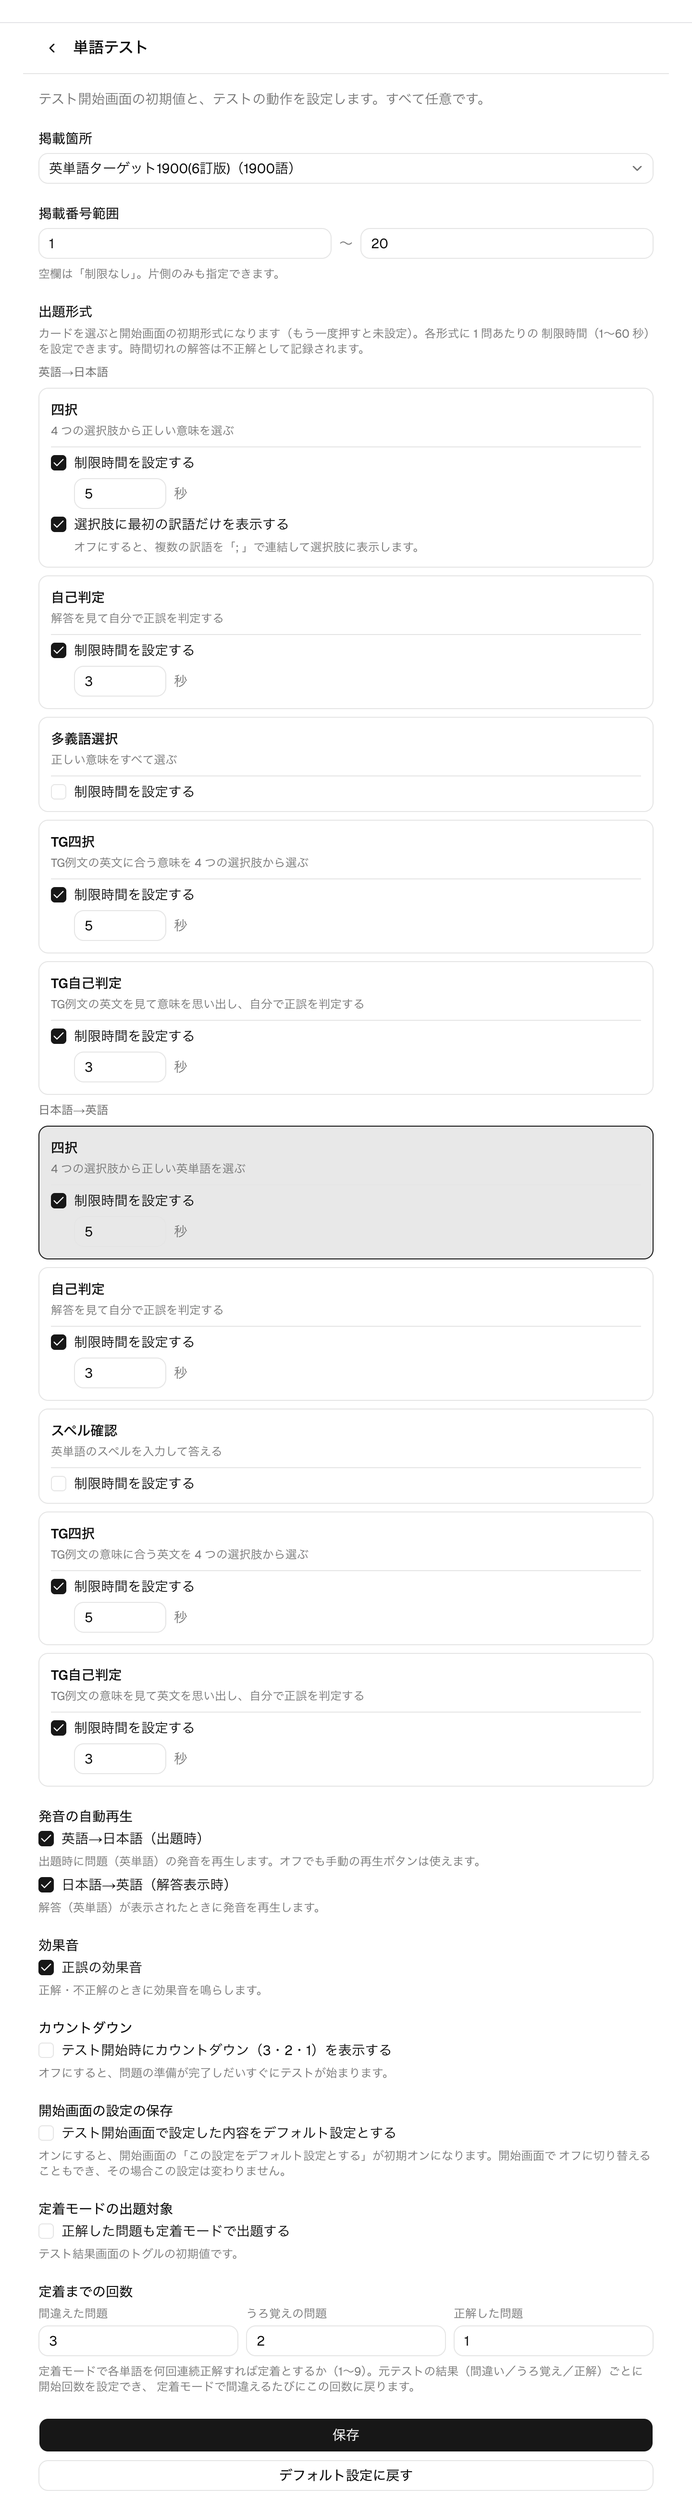
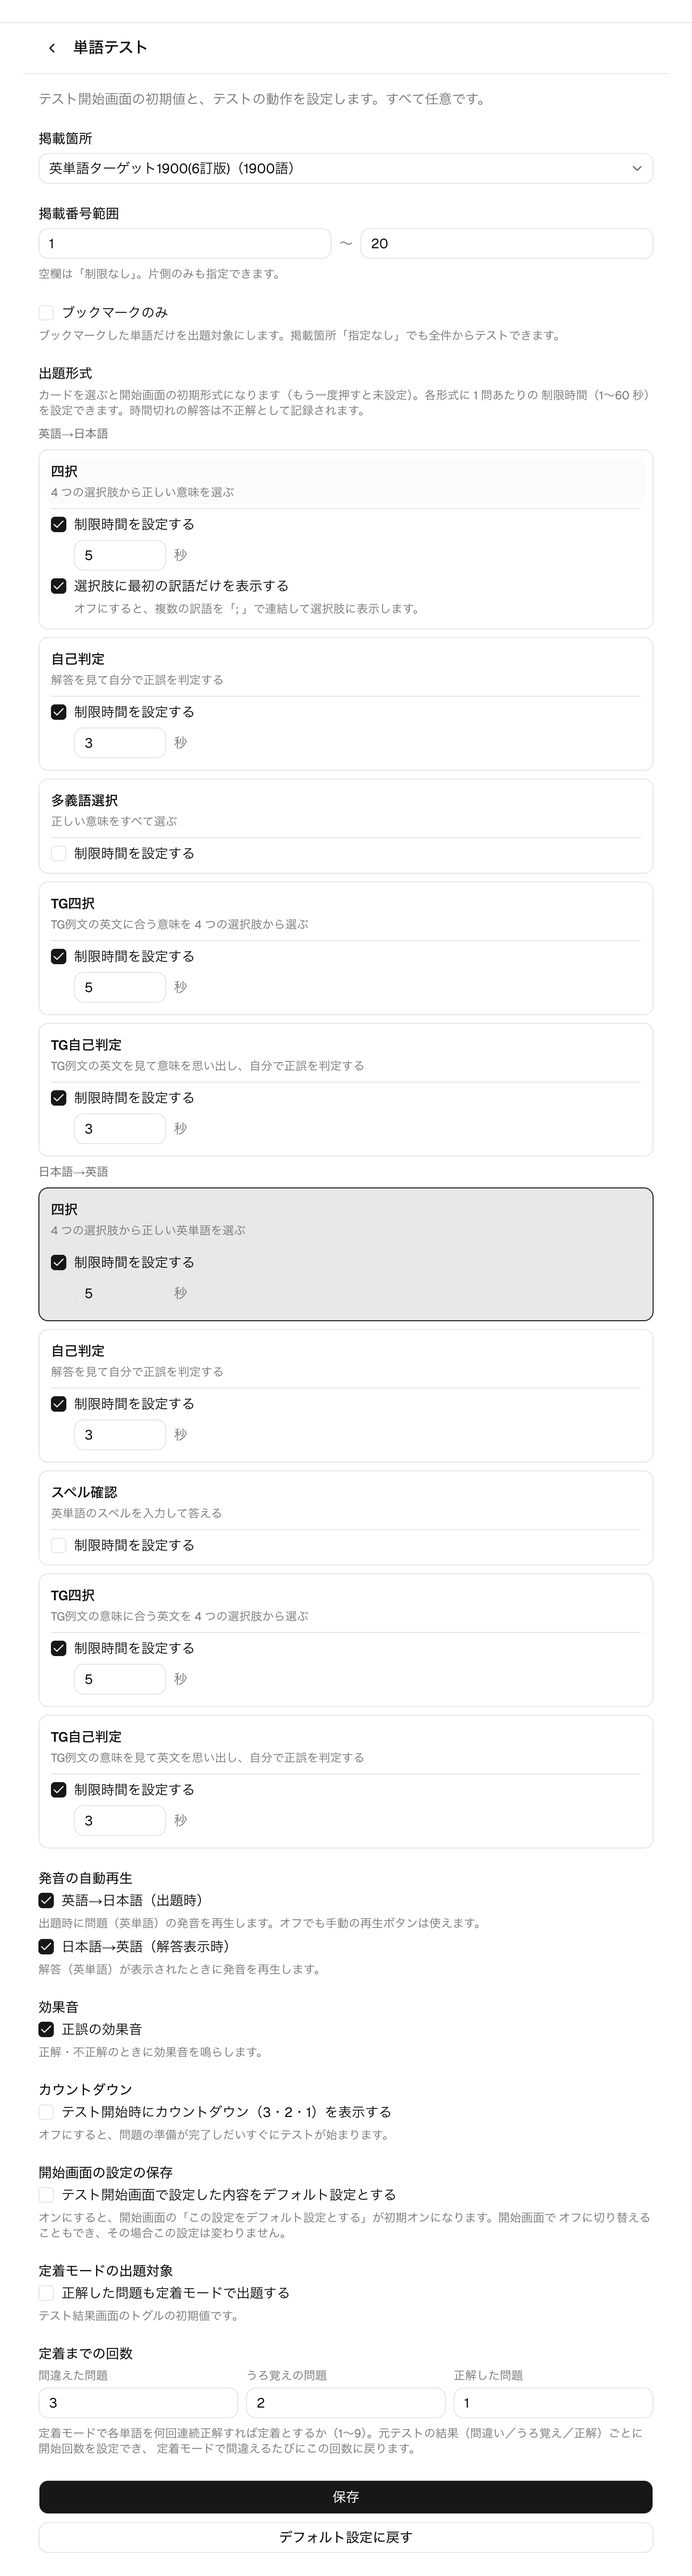
bookmark: 機能紹介ドキュメント（docs/features）追加
- docs/features/bookmark.md 新規（付け外し・一覧フィルタ・quiz 絞り込み・全件モード）
- capture スクリプトに bookmark セクション＋ ensureQuizDeckBookmarks seed を追加
- ブックマーク UI の追加で実画面が変わった既存スクリーンショットを再撮影
- README 目次と word-quiz / word-management からのクロスリンクを追加

diff --git a/scripts/e2e/capture-docs-screenshots.ts b/scripts/e2e/capture-docs-screenshots.ts
@@ -15,6 +15,7 @@ import {
   ensureAdminDemoInvitee,
   ensureDemoWord,
   ensureQuizDeck,
+  ensureQuizDeckBookmarks,
   ensureUser,
   getLargestSharedOccurrence,
   makePrisma,
@@ -365,6 +366,89 @@ async function sectionQuiz(browser: Browser): Promise<void> {
   }
 }
 
+/**
+ * ブックマーク（単語一覧のフィルタ・quiz 開始フォームの全件モード・テスト結果一覧とダイアログのトグル）。
+ * 被写体は ensureQuizDeck のデッキ＋ ensureQuizDeckBookmarks が付けるブックマーク 3 件。
+ * quiz の操作ヘルパは sectionQuiz と同型の最小版（セクション自己完結の方針で局所に持つ）。
+ */
+async function sectionBookmark(browser: Browser): Promise<void> {
+  const user = await docsContext(browser);
+  try {
+    const page = await login(user, TEST_USER1_EMAIL, TEST_USER1_PASSWORD);
+    const main = page.getByRole("main");
+
+    // 単語一覧の「ブックマークのみ」フィルタ表示中（行のトグルは ON 塗りつぶしで並ぶ）。
+    await page.goto("/words?bookmarked=1");
+    await shot(
+      page,
+      "bookmark-words-list",
+      page.getByRole("button", { name: "ブックマークのみ" }),
+      main,
+    );
+
+    // quiz 開始フォームの全件モード（掲載箇所「指定なし」＋ブックマークのみ ON、範囲 Input は disabled）。
+    await page.goto("/quiz");
+    await page.locator("#quiz-occurrence").click();
+    await page.getByRole("option", { name: "指定なし", exact: true }).click();
+    await page.getByRole("checkbox", { name: "ブックマークのみ" }).click();
+    await shot(page, "bookmark-quiz-start", page.getByText(/対象\s*\d+語/), main);
+
+    // テスト結果一覧（行のブックマークトグル）: デッキ No.1〜3 を自己判定で完走して結果へ。
+    // No.1 brisk はブックマーク済み・No.2〜3 は未ブックマークで、ON/OFF が混在した結果を撮る。
+    await page.goto("/quiz");
+    await page.locator("#quiz-occurrence").click();
+    await page.getByRole("option", { name: quizDeckLocation }).click();
+    await page.locator("#quiz-range-from").fill("1");
+    await page.getByLabel("掲載番号（まで）").fill("3");
+    await page.locator("#quiz-format").click();
+    await page.getByRole("option", { name: "自己判定" }).first().click();
+    const secInput = page.getByLabel("制限時間（秒）");
+    const appeared = await secInput
+      .waitFor({ state: "visible", timeout: 5_000 })
+      .then(() => true)
+      .catch(() => false);
+    if (appeared) {
+      await page.getByRole("checkbox", { name: "1 問ごとに制限時間を設定する" }).click();
+      await secInput.waitFor({ state: "hidden", timeout: 5_000 });
+    }
+    await page.getByRole("button", { name: "開始", exact: true }).click();
+
+    const judges = ["合っていた", "間違っていた", "うろ覚え"];
+    const reveal = page.getByRole("button", { name: "解答を表示", exact: true });
+    for (let i = 0; i < judges.length; i++) {
+      await reveal.waitFor({ state: "visible", timeout: 8_000 });
+      await reveal.click();
+      await page.getByRole("button", { name: judges[i] as string, exact: true }).click();
+    }
+    // 結果送信の完了と、ブックマーク状態の一括取得（トグル描画）を待ってから撮る。
+    await page.getByRole("heading", { name: "テスト結果" }).waitFor({ timeout: 15_000 });
+    await page
+      .getByRole("button", { name: "ブックマーク" })
+      .first()
+      .waitFor({ state: "visible", timeout: 15_000 });
+    await shot(
+      page,
+      "bookmark-quiz-result",
+      page.getByRole("heading", { name: "テスト結果" }),
+      main,
+    );
+
+    // 行タップで開く単語詳細ダイアログ（ヘッダ右上のトグルが行と同じ状態で出る）。
+    // dialog 要素はビューポート全幅のフルスクリーンダイアログのため、余白を省いて
+    // 内側の中央カラム（mx-auto コンテナ）にクリップする。
+    await page.getByRole("main").getByText("brisk", { exact: true }).first().click();
+    const dialog = page.getByRole("dialog");
+    await shot(
+      page,
+      "bookmark-quiz-result-dialog",
+      dialog.getByRole("button", { name: "ブックマーク" }),
+      dialog.locator("div.mx-auto").first(),
+    );
+  } finally {
+    await user.close();
+  }
+}
+
 /** 設定（設定トップ・単語全般・掲載箇所・単語テストのデフォルト）。すべて test1 の一般ユーザー画面。 */
 async function sectionSettings(browser: Browser): Promise<void> {
   const user = await docsContext(browser);
@@ -431,6 +515,9 @@ const SECTIONS: Record<string, (browser: Browser) => Promise<void>> = {
   common: sectionCommon,
   account: sectionAccount,
   words: sectionWords,
+  // bookmark は quiz より先に撮る（quiz が進行中の定着モードを残し、開始フォームの撮影に写り込むため。
+  // 進行中 drill は main() の DB 準備（ensureQuizDeck）が掃除する）。
+  bookmark: sectionBookmark,
   quiz: sectionQuiz,
   settings: sectionSettings,
   admin: sectionAdmin,
@@ -462,6 +549,7 @@ async function main(): Promise<void> {
 
   const needsWords = targets.some(([name]) => name === "words");
   const needsQuiz = targets.some(([name]) => name === "quiz");
+  const needsBookmark = targets.some(([name]) => name === "bookmark");
   // 設定の「掲載箇所」画面は test1 のデモ掲載箇所（②③が作る「デモ単語帳」「デモ英単語帳」）を被写体にする。
   const needsSettings = targets.some(([name]) => name === "settings");
   const needsAdmin = targets.some(([name]) => name === "admin");
@@ -474,10 +562,13 @@ async function main(): Promise<void> {
     if (needsWords) {
       sharedOccurrenceId = (await getLargestSharedOccurrence(prisma)).id;
     }
-    if (needsQuiz || needsSettings) {
+    if (needsQuiz || needsSettings || needsBookmark) {
       const deck = await ensureQuizDeck(prisma, TEST_USER1_EMAIL);
       quizDeckLocation = deck.location;
       quizDeckWordCount = deck.wordCount;
+    }
+    if (needsBookmark) {
+      await ensureQuizDeckBookmarks(prisma, TEST_USER1_EMAIL);
     }
     if (needsAdmin) {
       await assertSystemUserReady(prisma);

diff --git a/scripts/e2e/db.ts b/scripts/e2e/db.ts
@@ -333,6 +333,40 @@ export async function ensureQuizDeck(
   };
 }
 
+/** ブックマーク撮影でブックマーク済みにするデッキ語（QUIZ_DECK の headword から選ぶ）。 */
+const BOOKMARKED_DECK_HEADWORDS = ["brisk", "remote", "gaze"];
+
+/**
+ * ブックマーク機能の撮影用に、quiz デッキの一部の単語へ本人のブックマークを冪等に付ける。
+ * ensureQuizDeck がデッキ語を作り直す（＝旧 Bookmark 行は cascade で消える）ため、必ずその後に呼ぶ。
+ */
+export async function ensureQuizDeckBookmarks(
+  prisma: PrismaClientType,
+  ownerEmailRaw: string,
+): Promise<number> {
+  const email = ownerEmailRaw.toLowerCase();
+  const user = await prisma.user.findUnique({ where: { email }, select: { id: true } });
+  if (!user) {
+    throw new Error(
+      `ensureQuizDeckBookmarks: ユーザー ${email} が未用意です（先に ensureUser を呼んでください）。`,
+    );
+  }
+  const words = await prisma.word.findMany({
+    where: { ownerId: user.id, headword: { in: BOOKMARKED_DECK_HEADWORDS } },
+    select: { id: true },
+  });
+  if (words.length !== BOOKMARKED_DECK_HEADWORDS.length) {
+    throw new Error(
+      "ensureQuizDeckBookmarks: デッキ語が不足しています（先に ensureQuizDeck を呼んでください）。",
+    );
+  }
+  await prisma.bookmark.createMany({
+    data: words.map((w) => ({ userId: user.id, wordId: w.id })),
+    skipDuplicates: true,
+  });
+  return words.length;
+}
+
 /**
  * 掲載箇所ビューの撮影用に、最も単語数の多い共有（system 所有）掲載箇所を返す（読み取りのみ）。
  * 番号付きの一覧を映すのに使い、無ければ明示エラーにする（ターゲット1900 等を db:import-words で用意する）。

diff --git a/docs/features/bookmark.md b/docs/features/bookmark.md
@@ -1,0 +1,49 @@
+# ブックマーク
+
+## 概要
+
+ブックマークは、苦手な単語に印を付けて、あとから見返したり単語テストの出題対象を絞り込んだりする機能です。
+1 単語につき ON/OFF のシンプルなマークで、単語一覧・単語詳細・テスト結果のどこからでもアイコンのタップだけで
+付け外しできます。「テストで間違えた単語にその場で印を付け、後日ブックマークだけをまとめてテストし直す」という
+苦手つぶしの回し方ができます。
+
+## 主な画面と操作
+
+### 付け外しと「ブックマークのみ」フィルタ
+
+![ブックマークのみで絞り込んだ単語一覧](./images/bookmark-words-list.png)
+
+ブックマークの付け外しは、単語一覧の行・単語詳細画面・テスト結果一覧の行・テスト結果から開く単語詳細
+ダイアログの 4 箇所にあるブックマークアイコンで行います。タップで即座に切り替わり、付いている単語は
+塗りつぶしで表示されます。単語一覧では「ブックマークのみ」トグルでブックマーク済みの単語だけに
+絞り込めます（単語ビュー・掲載箇所ビューのどちらでも使えます）。
+
+### テスト結果からの付け外し
+
+![テスト結果一覧のブックマーク](./images/bookmark-quiz-result.png)
+
+テスト結果の一覧では、各単語の行にブックマークアイコンが並びます。答え合わせで「間違えた・うろ覚えだった」と
+わかった単語に、その場で印を付けるのに便利です。
+
+![単語詳細ダイアログのブックマーク](./images/bookmark-quiz-result-dialog.png)
+
+行をタップして開く単語詳細ダイアログの右上でも付け外しでき、ダイアログでの変更は閉じたあとの行の表示にも
+同期します。
+
+### 単語テストをブックマークで絞る
+
+![ブックマーク全件を対象にしたテスト開始画面](./images/bookmark-quiz-start.png)
+
+単語テストの開始画面の「ブックマークのみ」をオンにすると、出題対象がブックマーク済みの単語に絞られます。
+掲載箇所・掲載番号範囲との組み合わせ（範囲内のブックマークだけ）と、掲載箇所「指定なし」でのブックマーク
+全件テストの両方ができ、対象の語数はプレビューで確認できます。「この設定をデフォルト設定とする」の保存
+対象にも含まれます（→ [設定](./settings.md)）。
+
+## 補足
+
+- 共通の単語（MY バッジのない共有の単語）にもブックマークを付けられます。ブックマークは自分だけの記録で、
+  他のユーザーには見えません。
+- 「ブックマークのみ」フィルタの表示中に行のブックマークを外しても、その行はすぐには消えません。誤って
+  タップしたときにその場で付け直せるための挙動で、一覧を開き直すと反映されます。
+- ブックマークで絞ったテストから[定着モード](./drill.md)に進むこともできます。進行中の定着モードの一覧では、
+  出題条件に「ブックマークのみ」が表示され、通常のテスト由来のものと区別できます。

diff --git a/docs/features/word-management.md b/docs/features/word-management.md
@@ -14,7 +14,8 @@
 
 ログイン後のメニューから単語一覧を開くと、登録済みの単語を一覧できます。単語ビューでは自分の単語
 （MY バッジ）と共通の単語がまとめて新着順（または見出し順）に並び、各行に品詞・訳語・発音が表示されます。
-上部の検索欄で、英単語を「から始まる／を含む／で終わる」で絞り込めます。
+上部の検索欄で、英単語を「から始まる／を含む／で終わる」で絞り込めます。各行のブックマークアイコンで
+苦手な単語に印を付け、「ブックマークのみ」で絞り込むこともできます（→ [ブックマーク](./bookmark.md)）。
 
 ### 掲載箇所ビュー
 

diff --git a/docs/features/word-quiz.md b/docs/features/word-quiz.md
@@ -16,6 +16,8 @@
 掲載箇所を選び、掲載番号の範囲・出題形式・制限時間を決めて開始します。範囲の下には対象となる語数が
 プレビュー表示され、掲載番号のない単語や意味未登録の単語などの対象外の内訳も確認できます。設定した
 掲載箇所・範囲・出題形式・制限時間は「この設定をデフォルト設定とする」で保存でき、次回の初期値になります。
+「ブックマークのみ」をオンにすると、出題対象をブックマークした単語だけに絞れます
+（→ [ブックマーク](./bookmark.md)）。
 
 ### 四択
 
